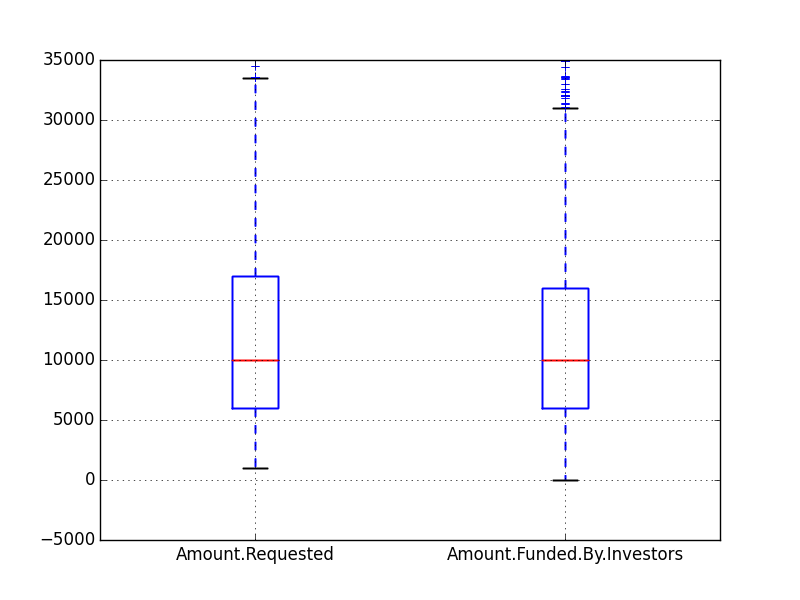
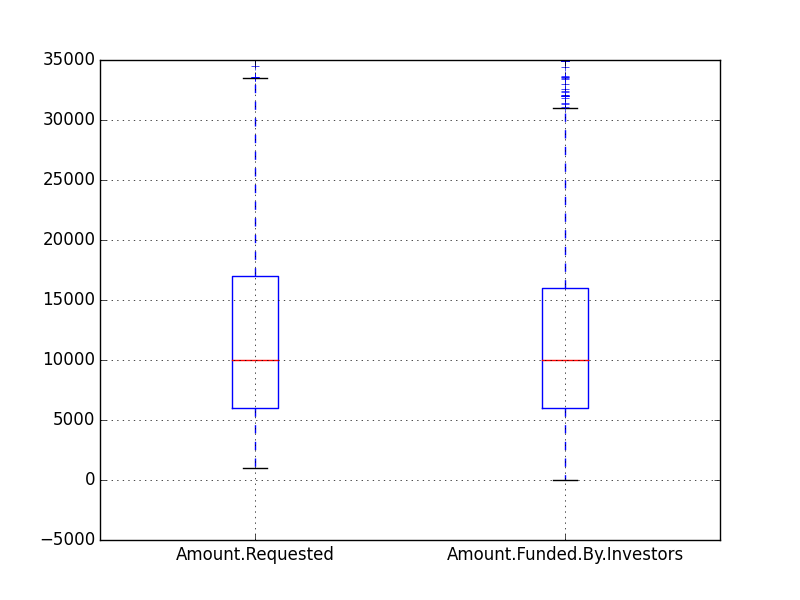
lending_club.py and prob_lending_club.py working properly-ish, and uploaded plots

diff --git a/thinkful/Unit2/univariate_analysis/lending_club_challenge/prob_lending_club.py b/thinkful/Unit2/univariate_analysis/lending_club_challenge/prob_lending_club.py
@@ -10,11 +10,18 @@ loansData.dropna(inplace = True)
 
 data = loansData[['Amount.Requested', 'Amount.Funded.By.Investors']]
 
+# Rather than just plotting the Amount Requested by itself, I created a boxplot and a histogram with both Amount Requested and Amount Funded by Investors on the same plot
+plt.figure()
 data.boxplot()
 plt.savefig('./plots/boxplot_amt_requested_v_funded.png')
 plt.clf()
+
 
 data.hist()
 plt.savefig('./plots/histogram_amt_requested_v_funded.png')
 plt.clf()
 
+# I don't think the QQ plot can handle two plots on the same figure, so I'm plotting them independently
+stats.probplot(loansData['Amount.Funded.By.Investors'], dist = "norm", plot = plt)
+plt.savefig('./plots/amt_funded_by_investors_v_normal_distribution.png')
+plt.clf()
